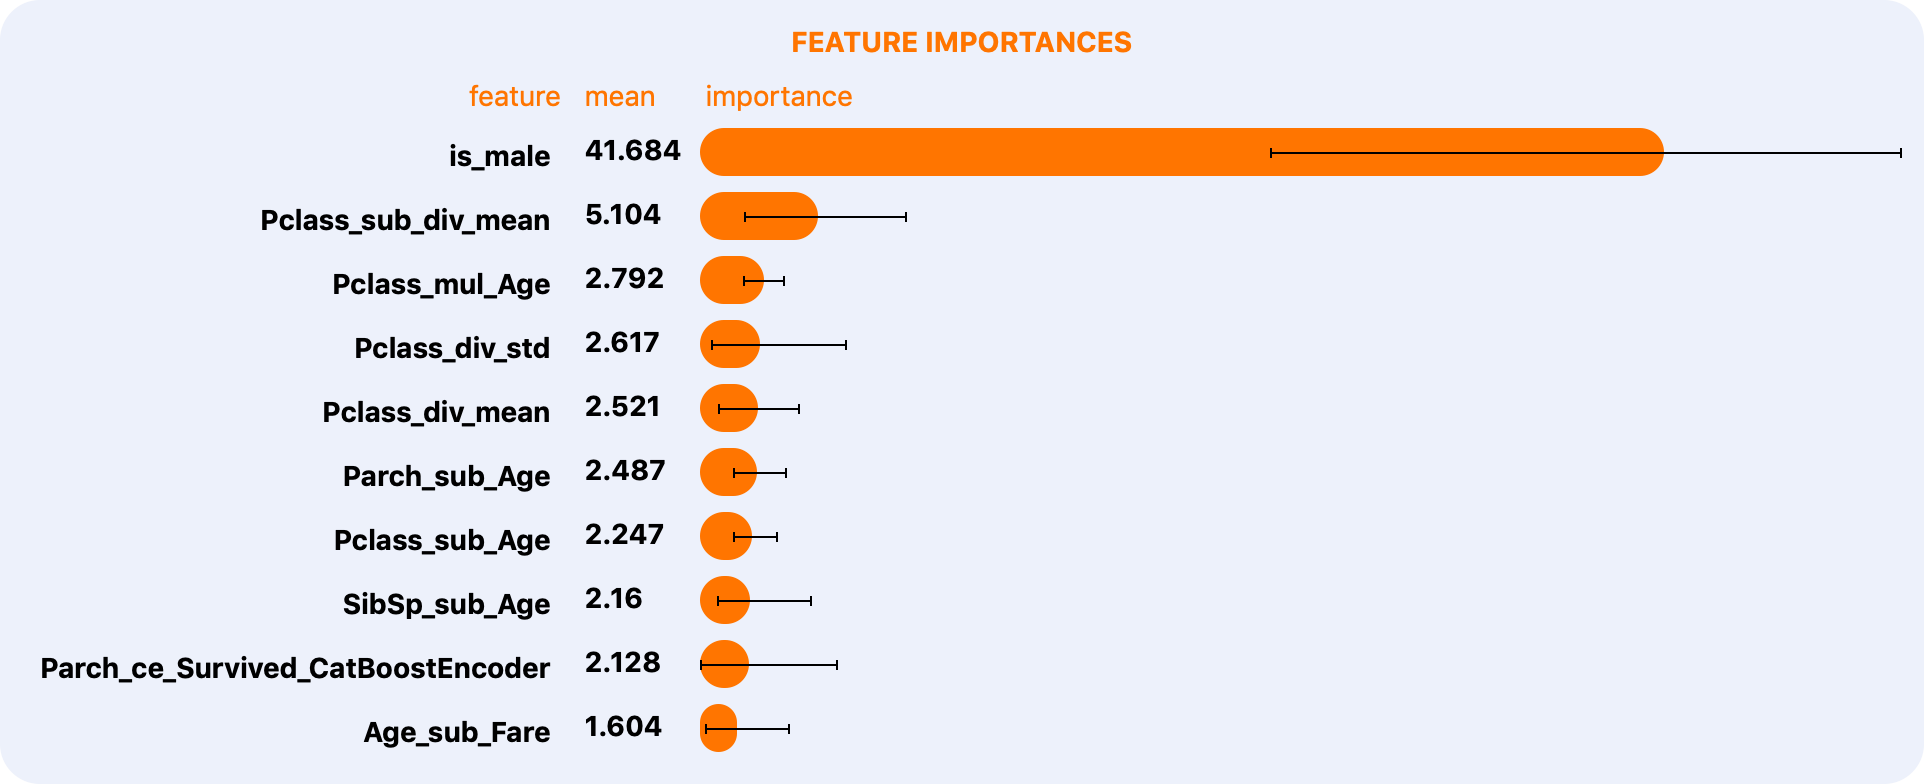
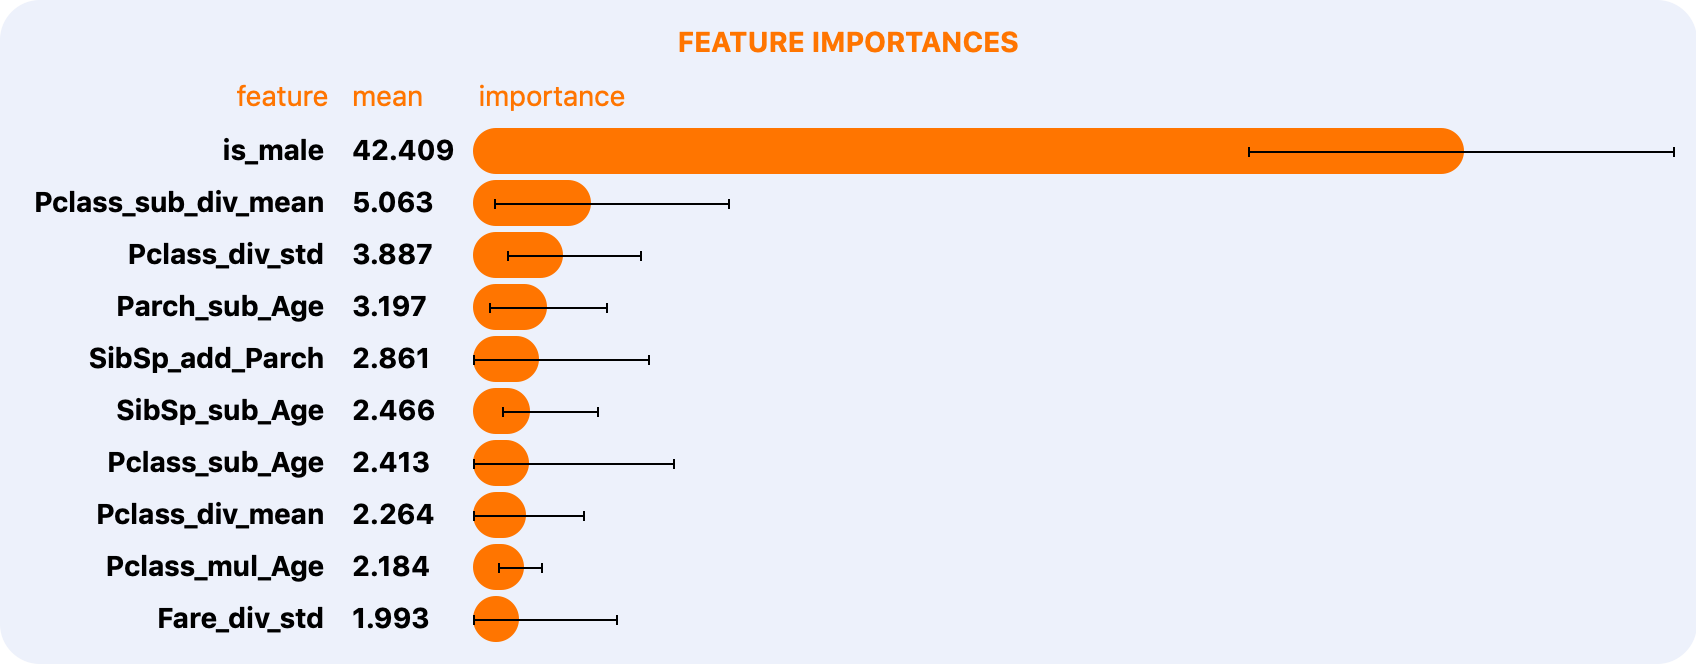
fix margins in feature names

Changed region(s): [[0.0, 0.0301, 1.0, 0.9639]]

diff --git a/kts/ui/feature_importances.py b/kts/ui/feature_importances.py
@@ -48,7 +48,7 @@ class FeatureImportances(HTMLRepr):
         mean_annotation = Annotation('mean', style="margin-left: 7px; margin-bottom: 3px;")
         hbar_annotation = Annotation('importance', style="margin-left: 5px; margin-bottom: 3px;")
         # names = [i['feature_constructor'].html_collapsible(name=i['name'], style='padding: 0px 5px; text-align: right;', bg=False, border=True) for i in self.features]
-        names = [Field(i['name'], style='padding: 0px 5px; text-align: right;', bg=False).html for i in self.features]
+        names = [Field(i['name'], style='padding: 0px 5px; text-align: right; margin: 2px;', bg=False).html for i in self.features]
         means = [Field(format_value(i['mean']), style='padding: 0px 5px; max-height: 1.5rem; margin: 2px;', bg=False).html for i in self.features]
         hbars = [Importance(self.to_px(i['mean']), self.to_px(i['min']), self.to_px(i['max']), self.zero_position).html for i in self.features]
         return AlignedColumns([
